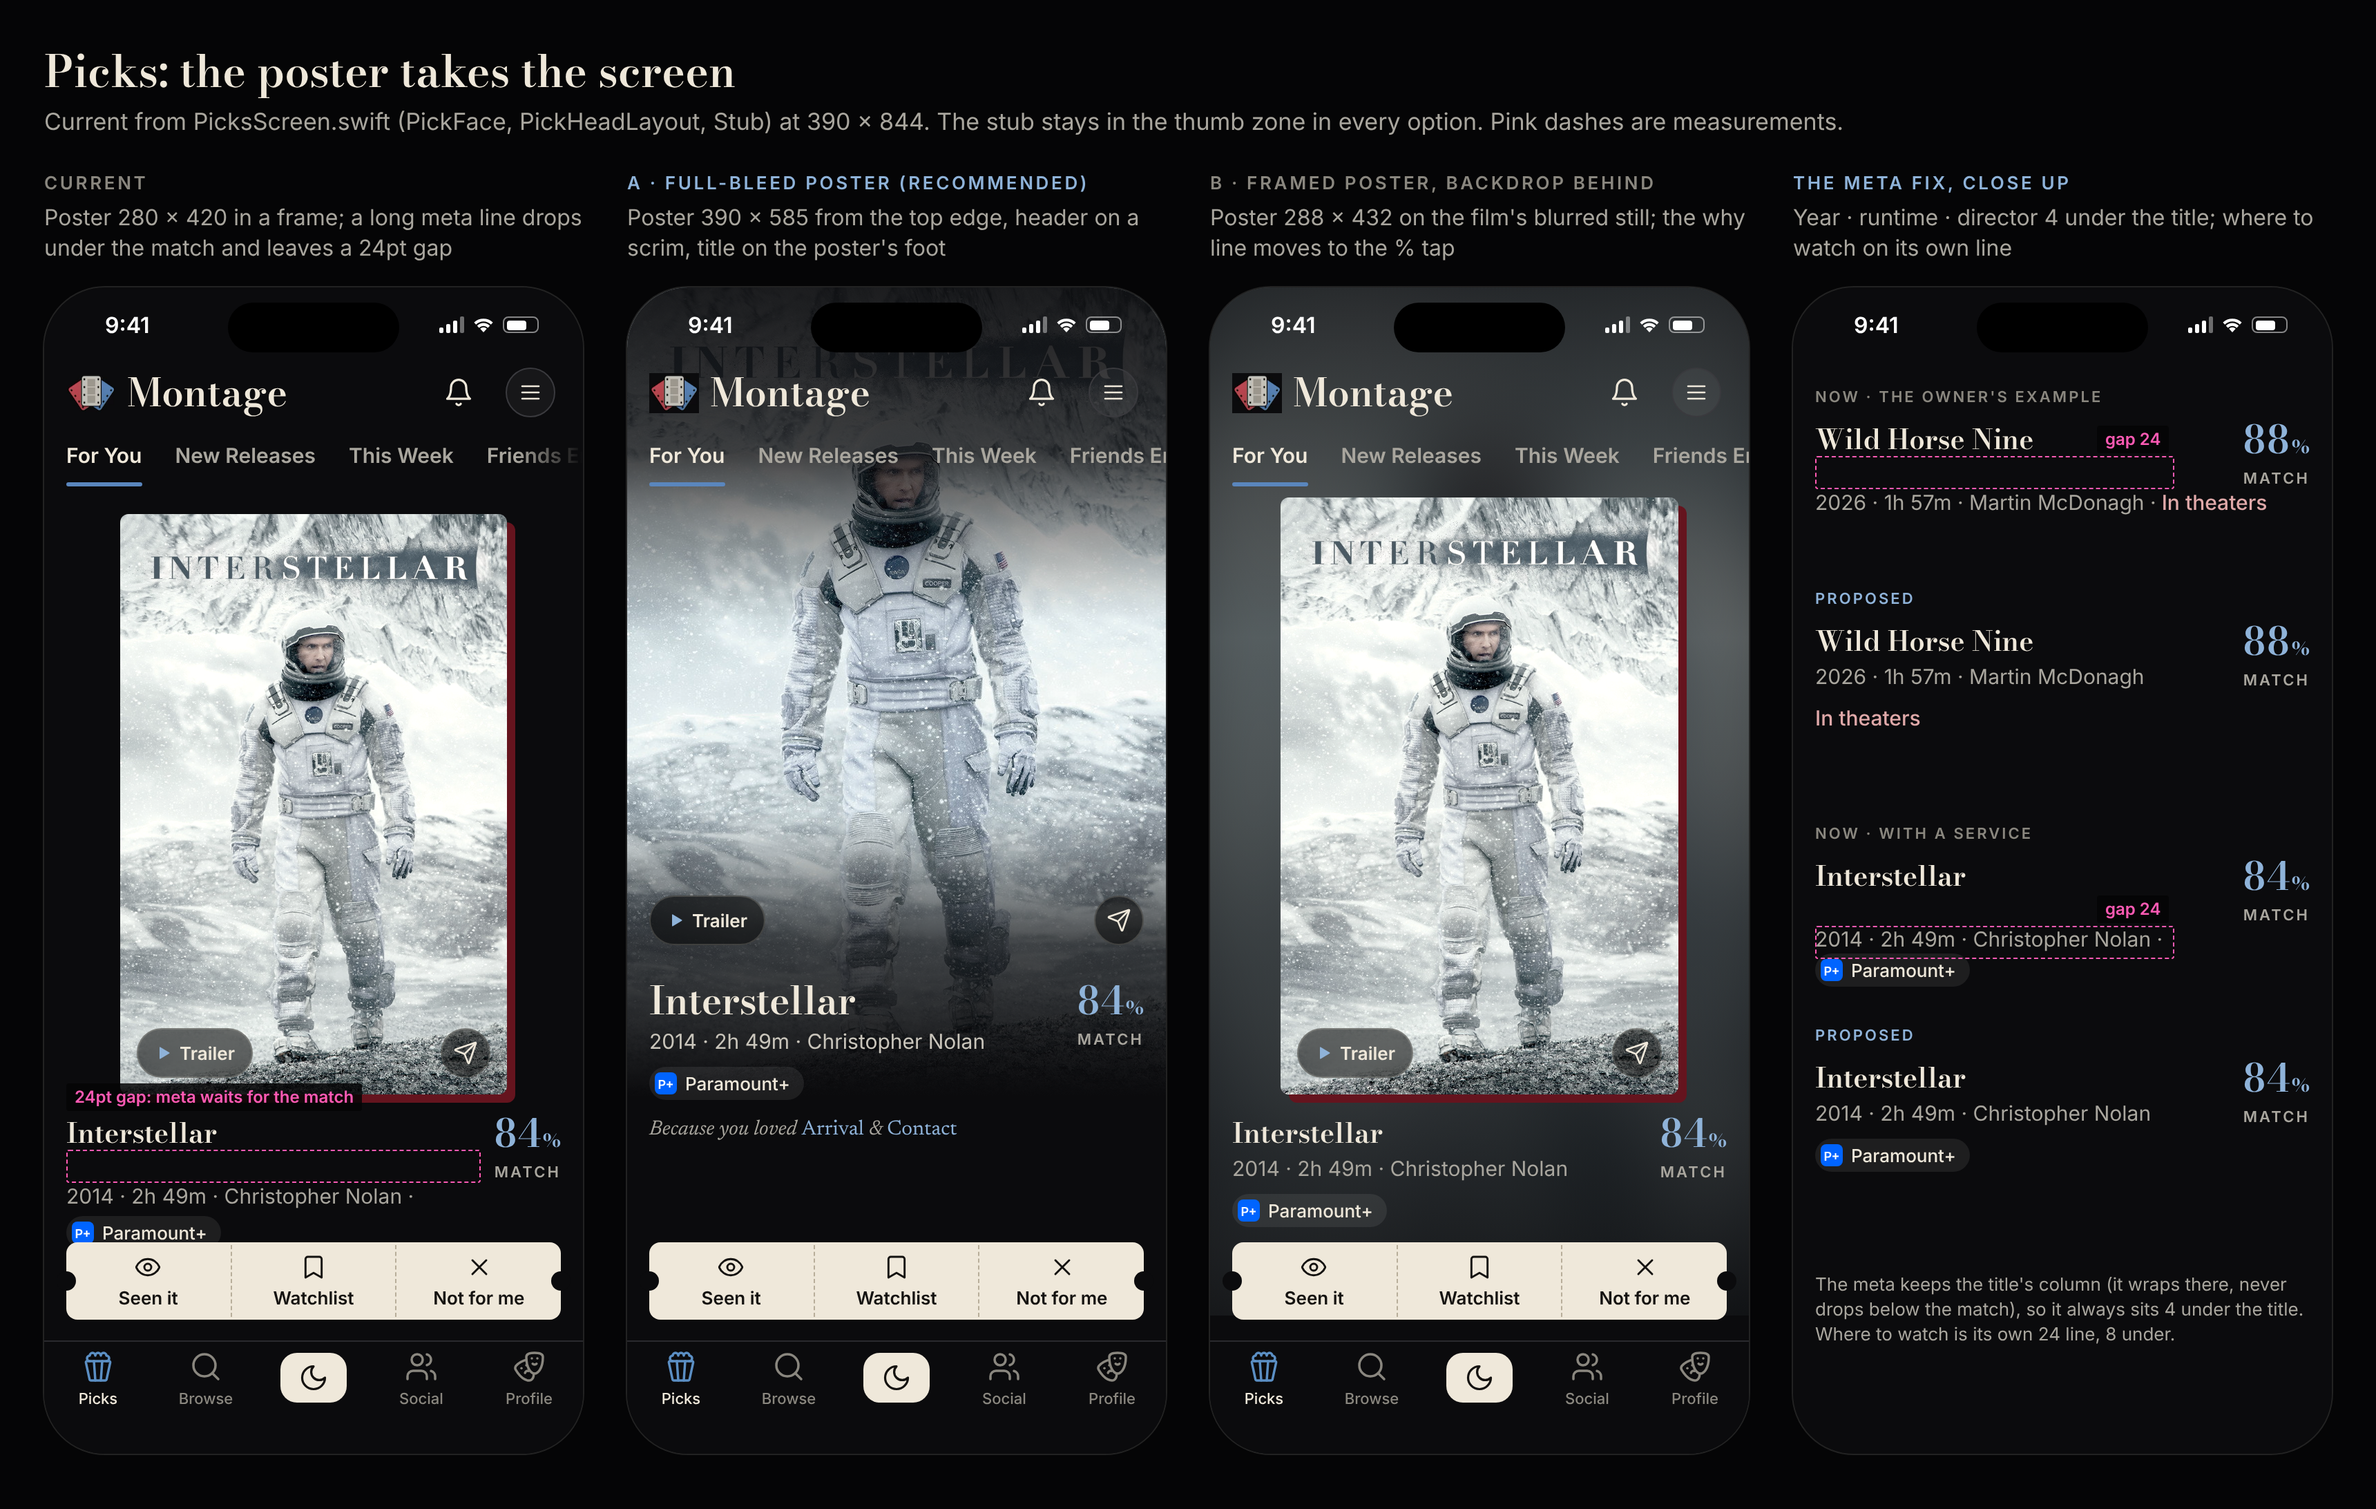
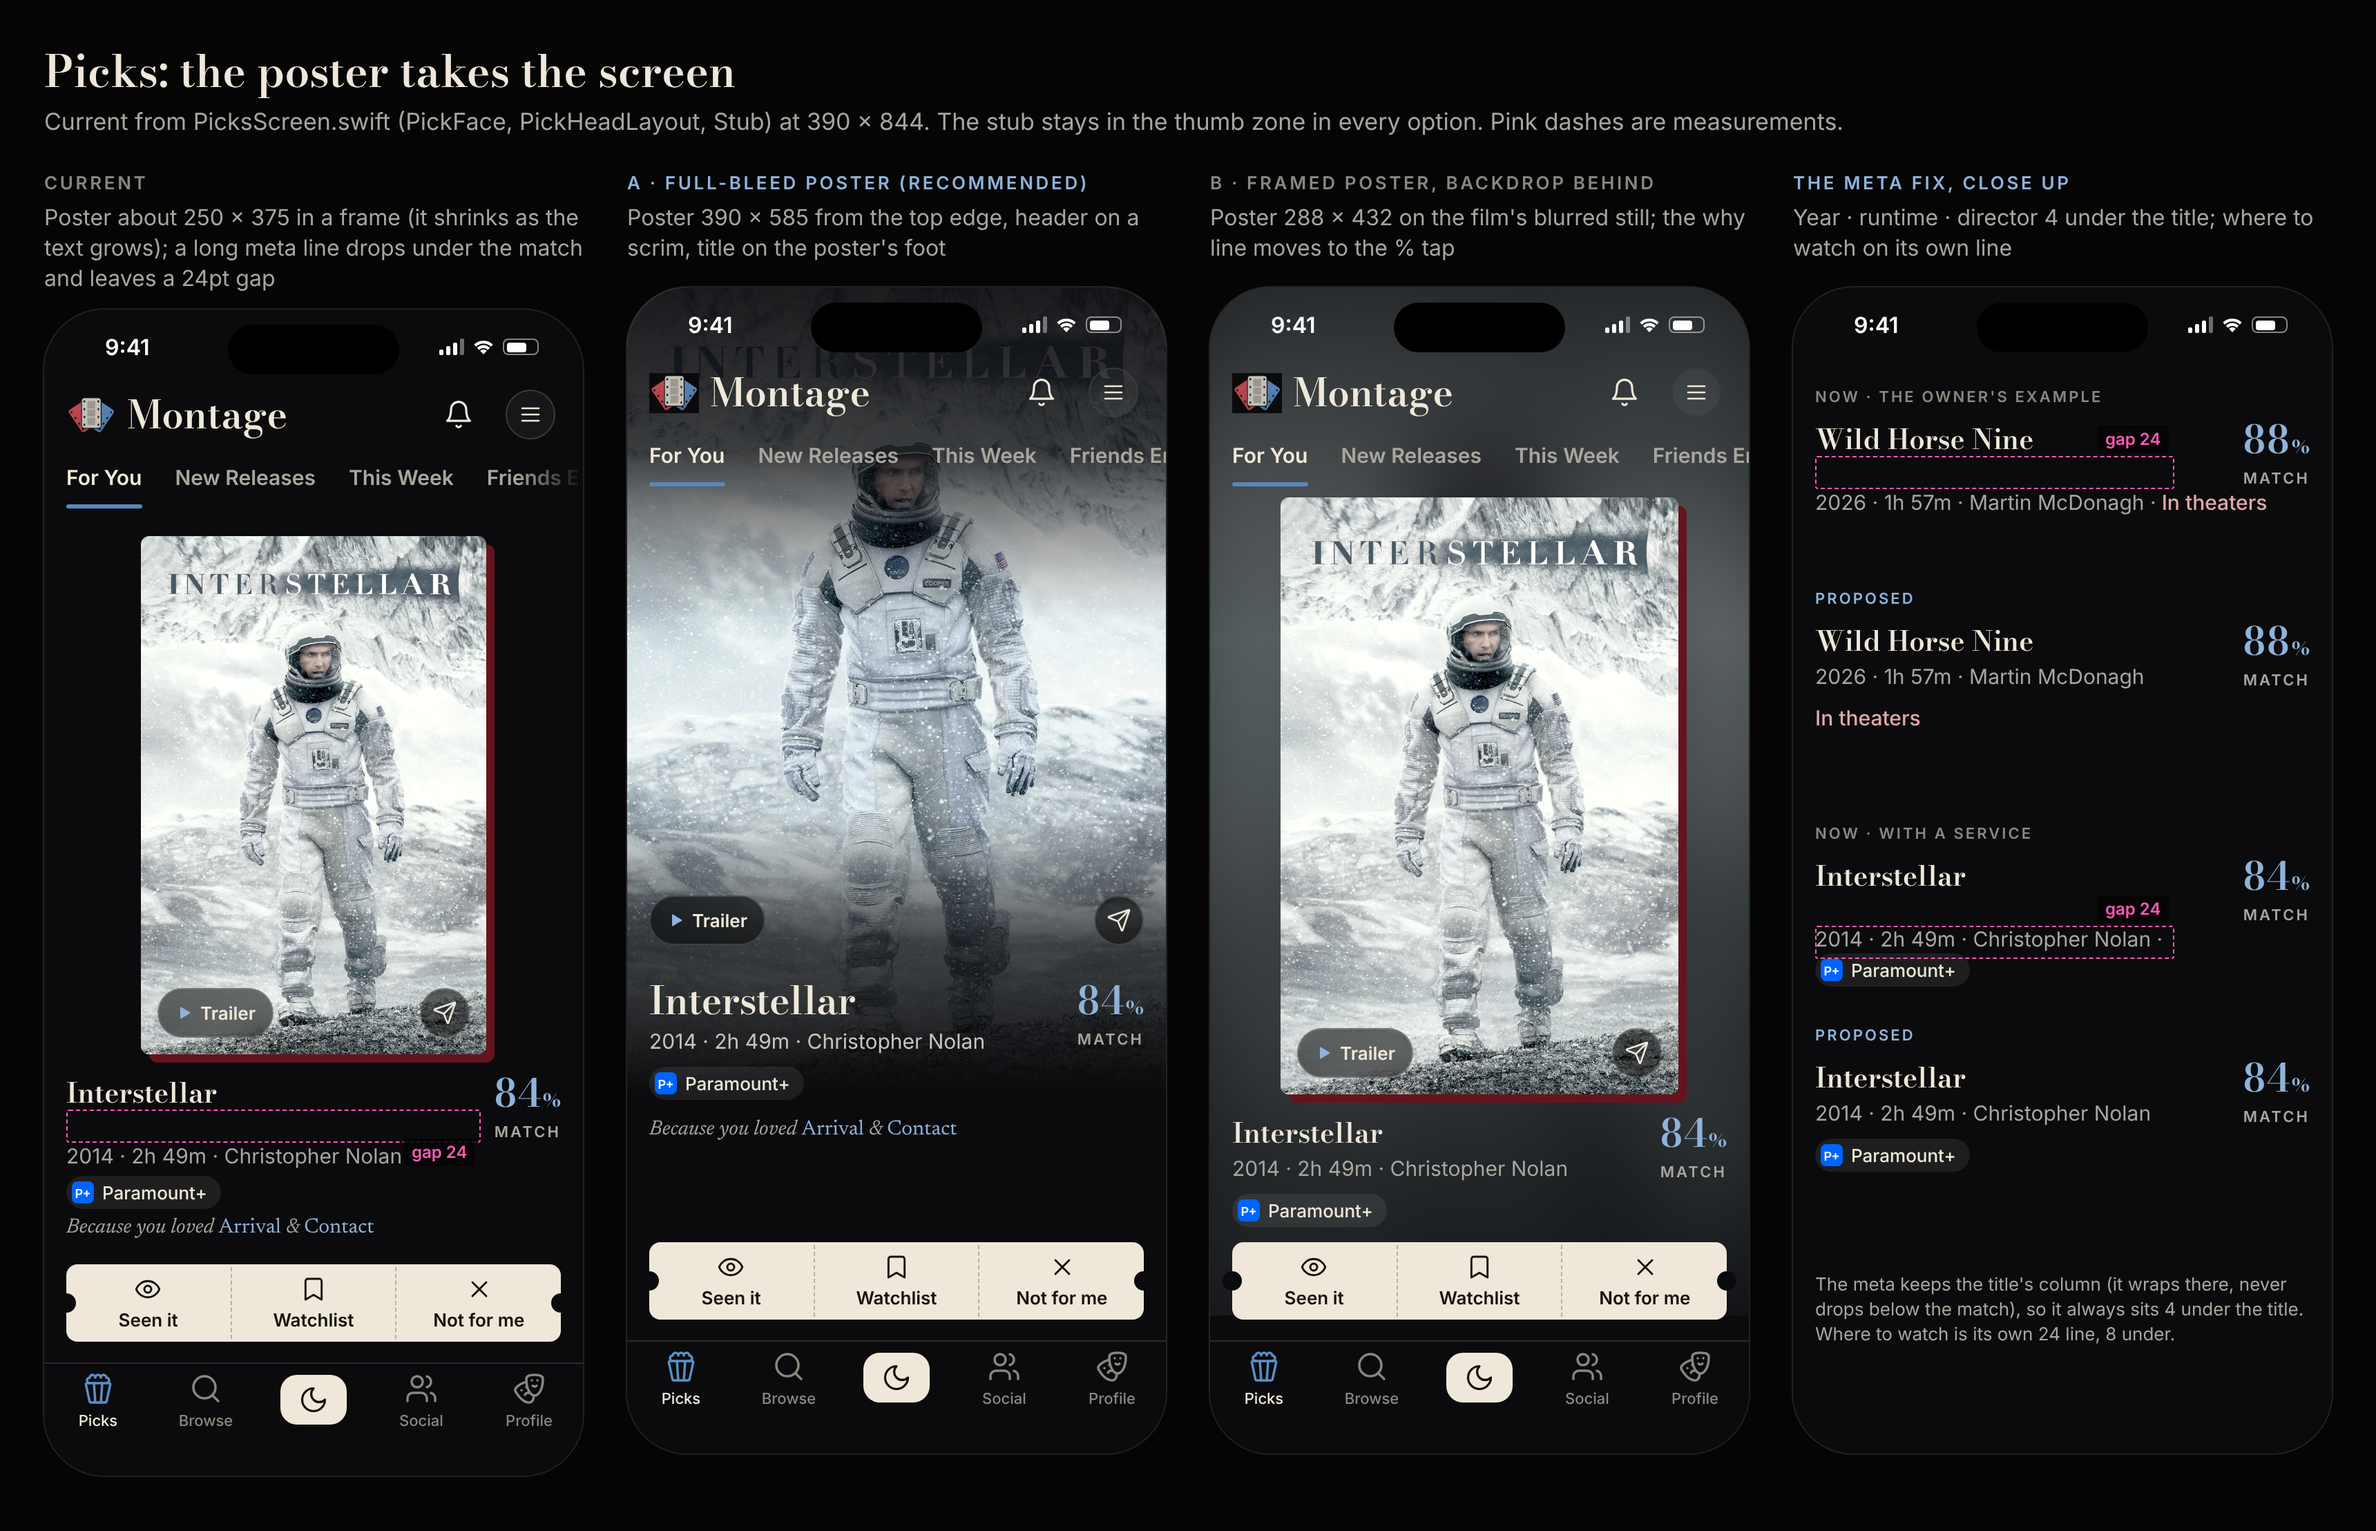
Mocks: walkthrough and first-run v1
Claude-Session: https://claude.ai/code/session_013WRDCFXH8nihP92apJAVW7

diff --git a/mockups/journeys/visual-pass-v1.html b/mockups/journeys/visual-pass-v1.html
@@ -187,7 +187,7 @@ body { background: #050506; color: var(--ink); font: 400 15px/20px var(--ui); -w
   <h1>Picks: the poster takes the screen</h1>
   <div class="sub">Current from PicksScreen.swift (PickFace, PickHeadLayout, Stub) at 390 x 844. The stub stays in the thumb zone in every option. Pink dashes are measurements.</div>
   <div class="row">
-    <div><div class="fcap"><b>Current</b><span>Poster 280 x 420 in a frame; a long meta line drops under the match and leaves a 24pt gap</span></div><div class="phone" id="p-now"></div></div>
+    <div><div class="fcap"><b>Current</b><span>Poster about 250 x 375 in a frame (it shrinks as the text grows); a long meta line drops under the match and leaves a 24pt gap</span></div><div class="phone" id="p-now"></div></div>
     <div><div class="fcap rec"><b>A · Full-bleed poster (recommended)</b><span>Poster 390 x 585 from the top edge, header on a scrim, title on the poster's foot</span></div><div class="phone" id="p-a"></div></div>
     <div><div class="fcap"><b>B · Framed poster, backdrop behind</b><span>Poster 288 x 432 on the film's blurred still; the why line moves to the % tap</span></div><div class="phone" id="p-b"></div></div>
     <div><div class="fcap rec"><b>The meta fix, close up</b><span>Year · runtime · director 4 under the title; where to watch on its own line</span></div><div class="phone" id="p-meta"></div></div>
@@ -280,12 +280,12 @@ const whyLine = `<div class="why">Because you loved <a>Arrival</a> &amp; <a>Cont
 // Current: 54 status, 44 bar, 2 + 44 tags (to 144); poster area +16, poster 4 down: 164..584, 280 wide at x 55; title 600;
 // match 28 on a 24 line + 4 + MATCH 14 = 42 (min 44); meta too wide for the column beside the match -> y = 48 (gap 24).
 document.getElementById('p-now').innerHTML = status() + at(54, topBar) + at(100, tags()) +
-  `<div class="po" style="position:absolute;left:55px;top:164px;width:280px;height:420px;border-radius:6px;box-shadow:6px 6px 0 var(--shadow);background-image:${IMG(POSTER)}"></div>` +
-  `<div style="position:absolute;left:67px;top:536px"><span class="pill"><svg><use href="#play"/></svg>Trailer</span></div><div style="position:absolute;left:287px;top:536px" class="circ"><svg><use href="#send"/></svg></div>` +
-  at(600, `<div class="g" style="position:relative"><div class="ptitle">Interstellar</div><div class="mstat" style="position:absolute;right:16px;top:0"><div class="n">84<small>%</small></div><span class="l">Match</span></div>
+  `<div class="po" style="position:absolute;left:70px;top:164px;width:250px;height:375px;border-radius:6px;box-shadow:6px 6px 0 var(--shadow);background-image:${IMG(POSTER)}"></div>` +
+  `<div style="position:absolute;left:82px;top:491px"><span class="pill"><svg><use href="#play"/></svg>Trailer</span></div><div style="position:absolute;left:272px;top:491px" class="circ"><svg><use href="#send"/></svg></div>` +
+  at(555, `<div class="g" style="position:relative"><div class="ptitle">Interstellar</div><div class="mstat" style="position:absolute;right:16px;top:0"><div class="n">84<small>%</small></div><span class="l">Match</span></div>
      <div style="margin-top:24px;display:flex;flex-wrap:wrap;gap:4px;align-items:center"><span class="meta">2014 · 2h 49m · Christopher Nolan ·</span>${svc}</div>
      <div style="margin-top:4px">${whyLine}</div></div>`) +
-  ann(16, 624, 300, 24, '24pt gap: meta waits for the match', 16, 576) +
+  ann(16, 579, 300, 24, 'gap 24', 260, 600) +
   stub(691) + tabbar('picks');
 
 // A: full-bleed poster 0..585, header over a top scrim; title block on the poster's foot; stub 691..747 as today.
